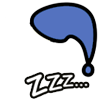
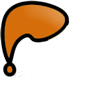
sleep mode update

diff --git a/css/style.css b/css/style.css
@@ -10,19 +10,54 @@
 {
 	width:35px;
 	height:35px;
+	-webkit-border-radius: 4px;
+	-moz-border-radius: 4px;
+	border-radius: 4px;
 }
 .avatar.size-130, .avatar.size-130 i
 {
 	width:130px;
 	height:130px;
+	-webkit-border-radius: 6px;
+	-moz-border-radius: 6px;
+	border-radius: 6px;
+}
+.avatar.size-50, .avatar.size-50 i
+{
+	width:50px;
+	height:50px;
+	-webkit-border-radius: 6px;
+	-moz-border-radius: 6px;
+	border-radius: 6px;
 }
 .avatar.size-mini.sleepmode-1 i, .avatar.size-mini.sleepmode-2 i
 {
 	background-image: url(/img/sleep35x35.png);
+	left: -4px;
+    position: relative;
+    top: -6px;
+}
+.avatar.size-50.sleepmode-1 i, .avatar.size-50.sleepmode-2 i
+{
+	background-image: url(/img/sleep50x50.png);
+	left: -8px;
+    position: relative;
+    top: -7px;
 }
 .avatar.size-130.sleepmode-1 i, .avatar.size-130.sleepmode-2 i
 {
 	background-image: url(/img/sleep130x130.png);
+	left: -30px;
+    position: relative;
+    top: -25px;
+}
+.avatar.sleepmode-1, .avatar.sleepmode-2
+{
+	
+}
+.xvptab-content
+{
+	height:500px;
 }
 .red, .red a
 {
@@ -1643,7 +1678,7 @@ top: auto;
 }
 span.vouch-banana span
 {
-	background-image:url(img/bananan.png);
+	background-image:url(/img/bananan.png);
 }
 a.vouch-banana:hover
 {

diff --git a/js/script.js b/js/script.js
@@ -438,8 +438,10 @@ function profile(id)
 				$('#tabs-profile').tabs('option',{
 					heightStyle: 'fill'
 				});
-
+				$('#tabs-profile .ui-tabs-panel:first').css('overflow','hidden');
+				$('.xvmoreinfo').slimScroll();
 				
+				$('#dialog-profile-info').dialog( 'option', 'position', 'center' );
 				/*
 				$('.fsrating').jRating({
 					step:true,

diff --git a/app/profile/profile.view.php b/app/profile/profile.view.php
@@ -156,11 +156,30 @@ class ProfileView extends View
 			$opt .= '<li><a href="?page=merge&fsid='.$this->foodsaver['id'].'&rurl='.urlencode(getSelf()).'">*verwandeln*</a></li>';
 		}
 		
-		$add_date = new fDate($this->foodsaver['anmeldedatum']);
-		$topinfos[] = array(
-			'name' => 'Dabei seit',
-			'val' => $add_date->format('d.m.Y')
-		);
+		if($this->foodsaver['sleep_status'] == 0)
+		{
+			$date = new fDate($this->foodsaver['anmeldedatum']);
+			$topinfos[] = array(
+					'name' => 'Dabei seit',
+					'val' => $date->format('d.m.Y')
+			);
+		}
+		else if($this->foodsaver['sleep_until_ts'])
+		{
+			$date = new fDate($this->foodsaver['sleep_until']);
+			$topinfos[] = array(
+					'name' => 'schläft bis',
+					'val' => $date->format('d.m.Y')
+			);
+		}
+		else
+		{
+			$date = new fDate($this->foodsaver['last_login']);
+			$topinfos[] = array(
+					'name' => 'letzter Login',
+					'val' => $date->format('d.m.Y')
+			);
+		}
 		
 		$b_style = '';
 		if(!$ginfo)
@@ -328,7 +347,9 @@ class ProfileView extends View
 							</tr>
 						</table>
 						<div style="clear:both;"></div>
-						'.$this->xv_set($infos).'
+						<div class="xvmoreinfo" style="height:220px;">
+							'.$this->xv_set($infos).'
+						</div>
 						<div style="display:none">
 							<input type="hidden" name="profile-rate-id" id="profile-rate-id" value="'.$this->foodsaver['id'].'" />
 							<div class="vouch-banana-title">
@@ -347,11 +368,19 @@ class ProfileView extends View
 				</div>';
 	}
 	
-	public function xv_set($rows,$title = '')
+	public function xv_set($rows,$title = false)
 	{
+		if(!$title)
+		{
+			$title = '';
+		}
+		else
+		{
+			$title = '<h3>'.$title.'</h3>';
+		}
 		$out = '
-	<div class="xv_set">
-		<h3>'.$title.'</h3>';
+	<div id="'.id($title).'" class="xv_set">
+		'.$title;
 		foreach ($rows as $r)
 		{
 			$out .= '

diff --git a/lib/Manual.class.php b/lib/Manual.class.php
@@ -88,7 +88,7 @@ GROUP BY foodsaver_id'));
 	{
 		if($ret = $this->q('
 				
-			SELECT 	n.id, n.milestone, n.`text` , n.`zeit` AS update_time, UNIX_TIMESTAMP( n.`zeit` ) AS update_time_ts, fs.name AS foodsaver_name, fs.id AS foodsaver_id, fs.photo AS foodsaver_photo, b.id AS betrieb_id, b.name AS betrieb_name
+			SELECT 	n.id, n.milestone, n.`text` , n.`zeit` AS update_time, UNIX_TIMESTAMP( n.`zeit` ) AS update_time_ts, fs.name AS foodsaver_name, fs.sleep_status, fs.id AS foodsaver_id, fs.photo AS foodsaver_photo, b.id AS betrieb_id, b.name AS betrieb_name
 			FROM 	'.PREFIX.'betrieb_notiz n, '.PREFIX.'foodsaver fs, '.PREFIX.'betrieb b, '.PREFIX.'betrieb_team bt
 			
 			WHERE 	n.foodsaver_id = fs.id
@@ -150,6 +150,7 @@ GROUP BY foodsaver_id'));
 						fs.id AS foodsaver_id,
 						fs.name AS foodsaver_name,
 						fs.photo AS foodsaver_photo,
+						fs.sleep_status,
 						p.body AS post_body,
 						p.`time` AS update_time,
 						UNIX_TIMESTAMP(p.`time`) AS update_time_ts,
@@ -185,6 +186,7 @@ GROUP BY foodsaver_id'));
 						fs.id AS foodsaver_id,
 						fs.name AS foodsaver_name,
 						fs.photo AS foodsaver_photo,
+						fs.sleep_status,
 						p.body AS post_body,
 						p.`time` AS update_time,
 						UNIX_TIMESTAMP(p.`time`) AS update_time_ts,

diff --git a/control/dashboard.php b/control/dashboard.php
@@ -606,10 +606,16 @@ function u_updates($updates)
 	$i=0;
 	foreach ($updates as $u)
 	{
+		$fs = array(
+			'id' => $u['foodsaver_id'],
+			'name' => $u['foodsaver_name'],
+			'photo' => $u['foodsaver_photo'],
+			'sleep_status' => $u['sleep_status']
+		);
 		$out .= '
 		<div class="updatepost">
 				<a class="poster ui-corner-all" href="#" onclick="profile('.(int)$u['foodsaver_id'].');return false;">
-					<img class="ui-corner-all" src="'.img($u['foodsaver_photo'],50,'q').'" alt="'.$u['foodsaver_name'].'" />
+					'.avatar($fs,50).'
 				</a>
 				<div class="post">
 					'.u_update_type($u).'

diff --git a/app/profile/profile.model.php b/app/profile/profile.model.php
@@ -68,6 +68,7 @@ class ProfileModel extends Model
 					fs.`about_me_public`,
 					fs.`orgateam`,
 					fs.`data`,
+					fs.`last_login`,
 					fs.stat_fetchweight,
 					fs.stat_fetchcount,
 					fs.stat_ratecount,
@@ -80,6 +81,7 @@ class ProfileModel extends Model
 					fs.anmeldedatum,
 					fs.sleep_status,
 					fs.sleep_msg,
+					fs.sleep_until,
 					UNIX_TIMESTAMP(fs.sleep_from) AS sleep_from_ts,
 					UNIX_TIMESTAMP(fs.sleep_until) AS sleep_until_ts
 		
